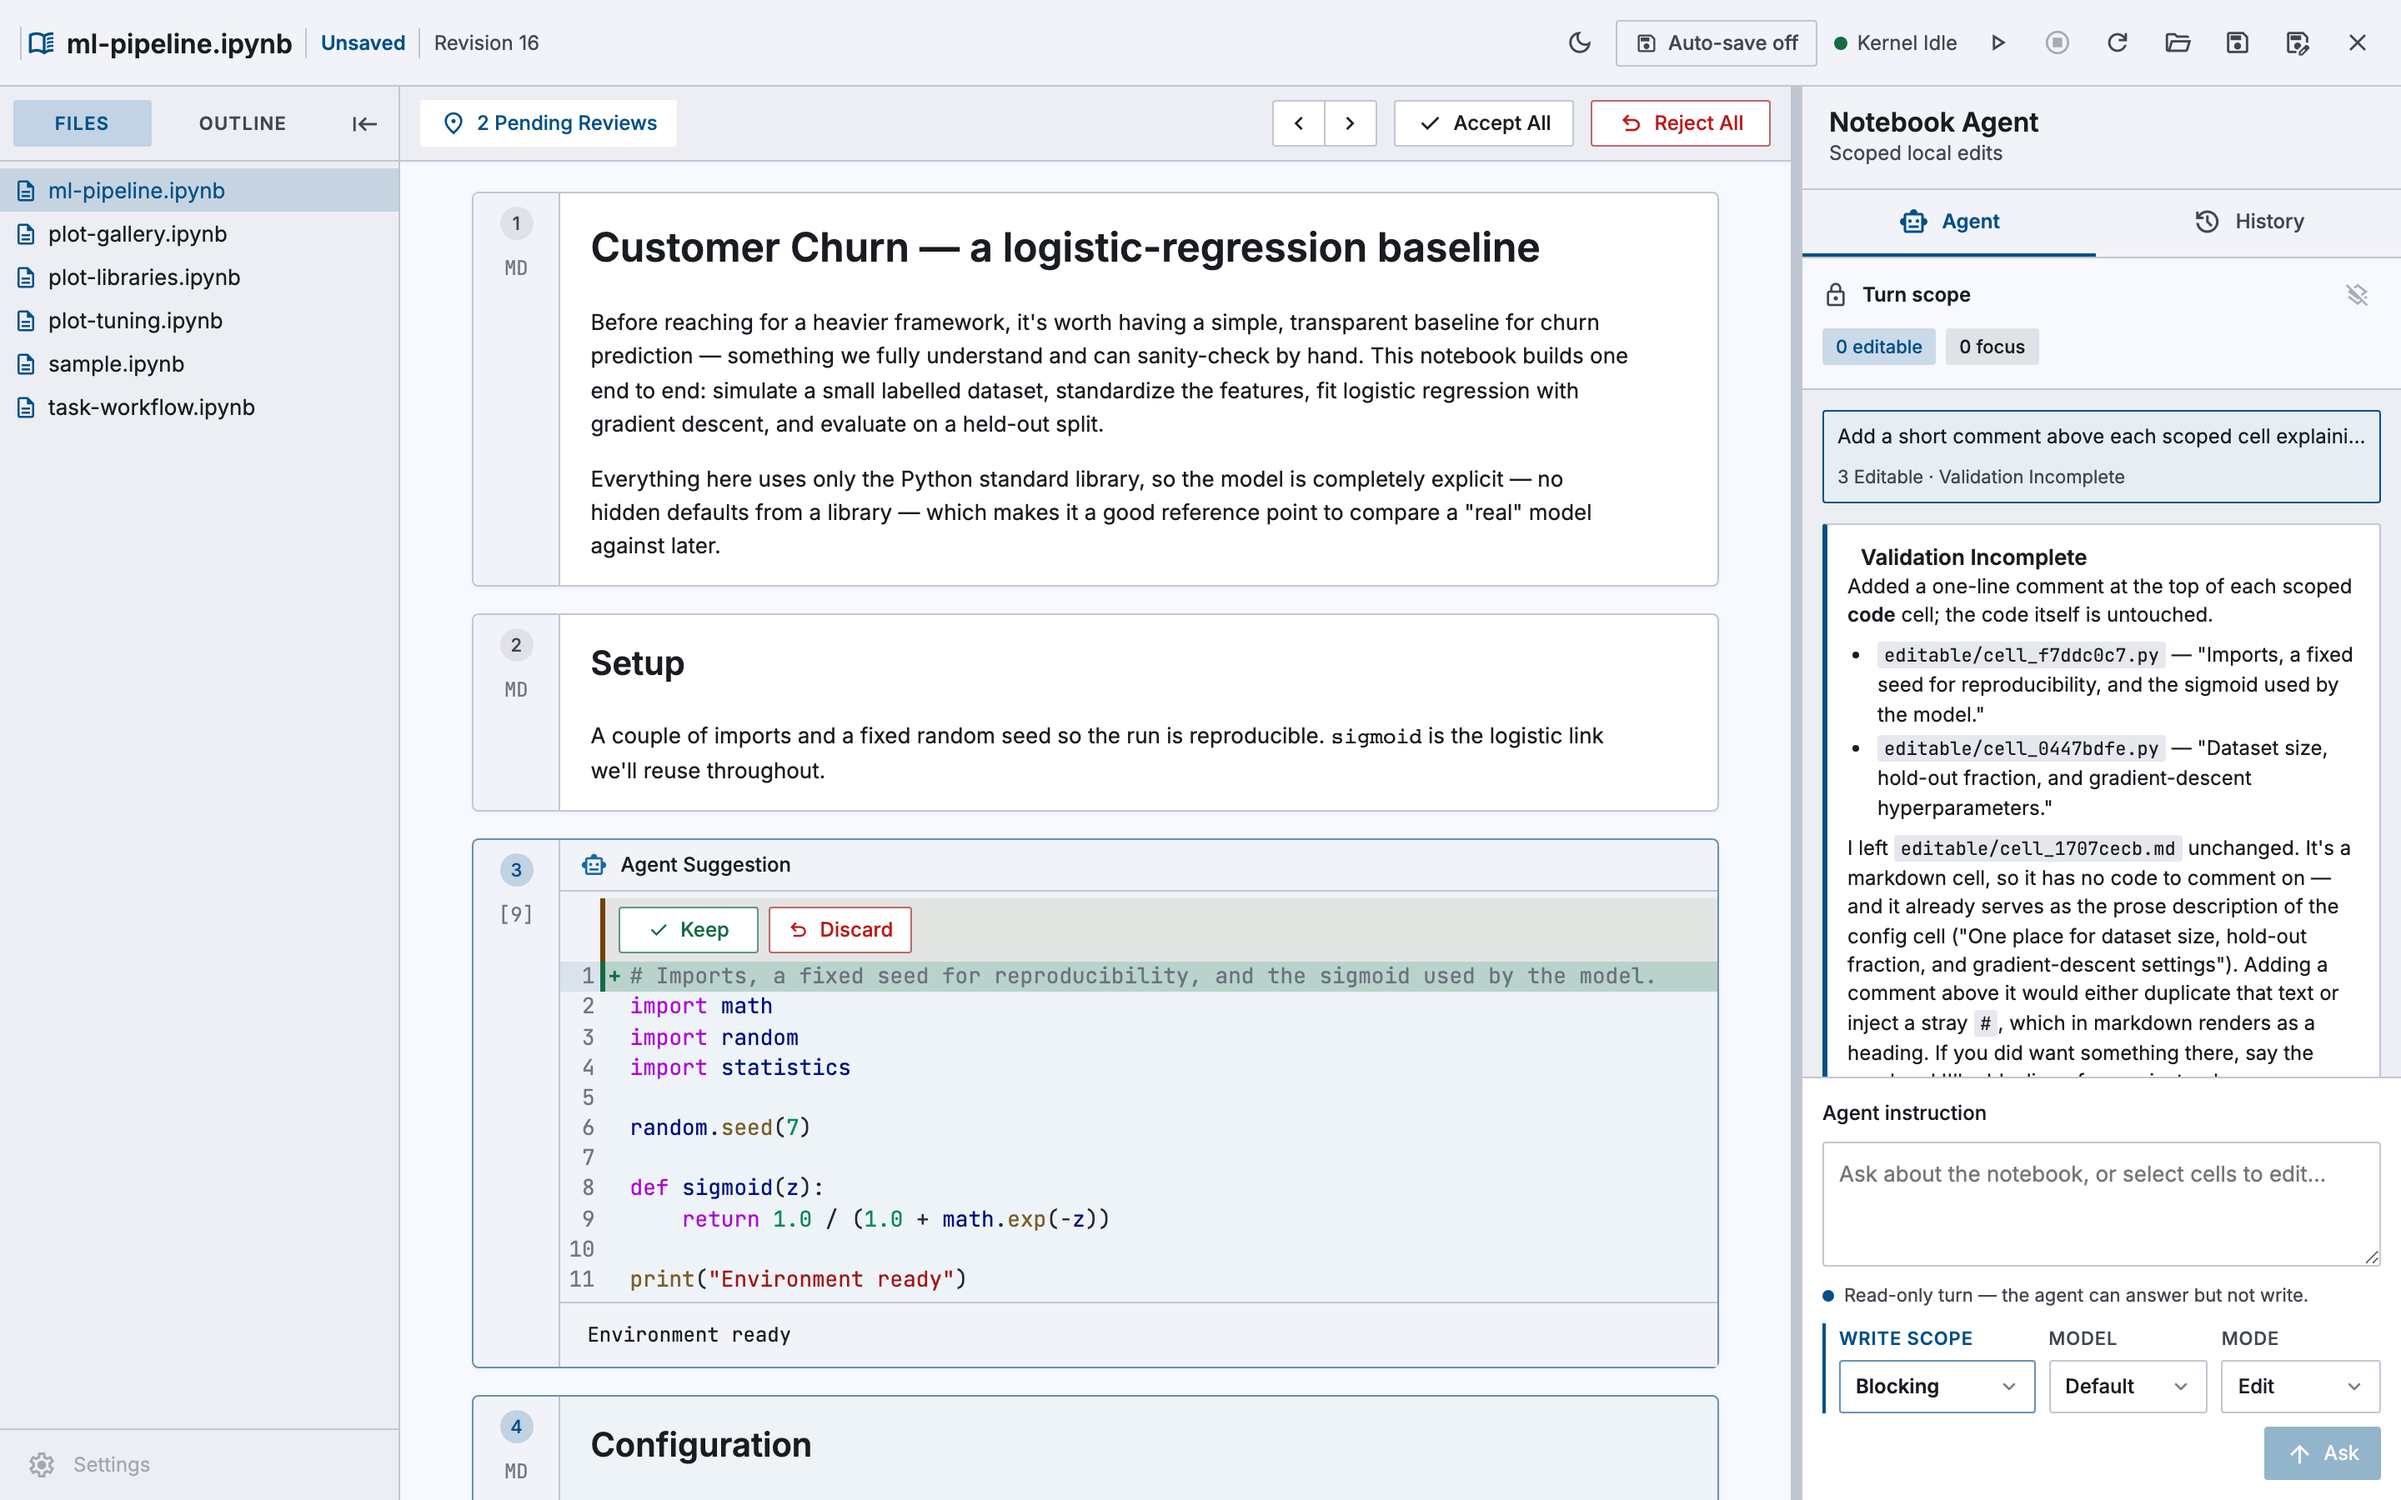
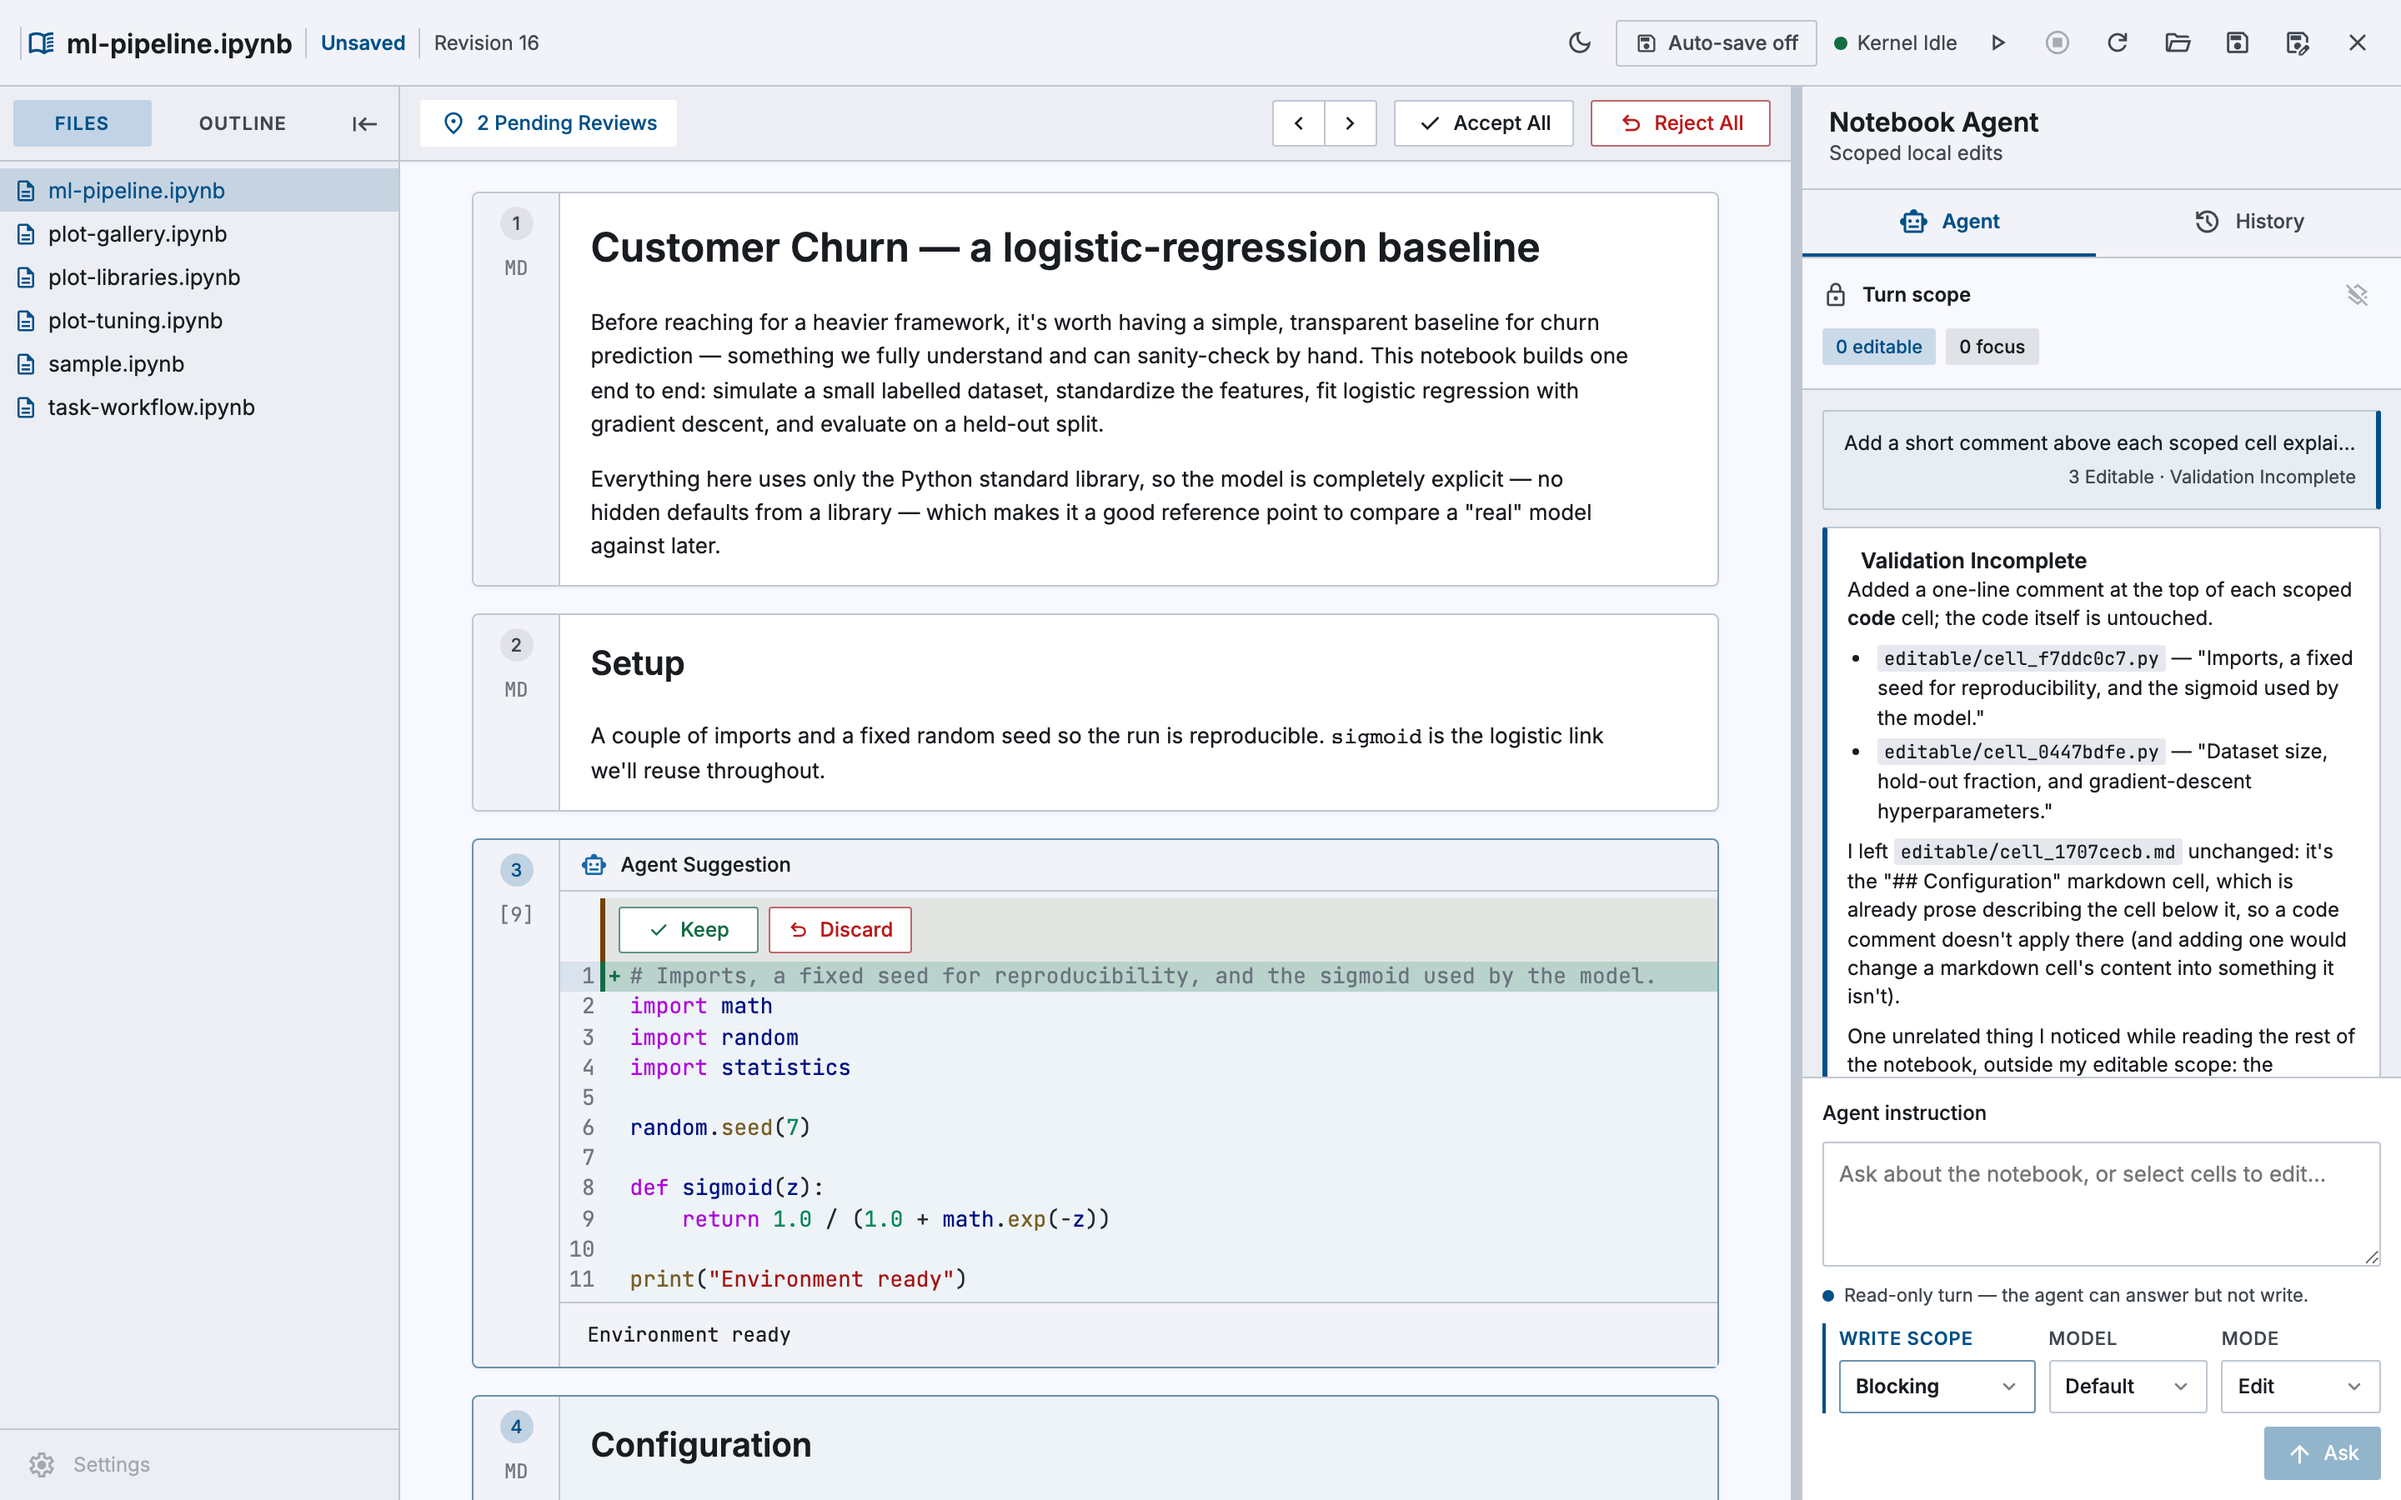
turn history: make the user's turn the mirror of the agent's, not a chip
The two halves of a conversation were drawn as two different things: the
agent's reply is a card with a 3px rule down its left, the user's prompt
was a bordered chip with nothing in common with it.

Now it is the same card — same border, radius, surface and padding —
with the rule on the *right* and the text right-aligned. Which edge
carries the rule is the only difference, and it is what says who wrote
it. Selection stays a background tint rather than a border change, so
the rule reads the same whether or not the turn is the selected one.

Worth noting against design-brief §2: this puts a little authorship
signal back into the visuals without re-introducing the agent-vs-user
colour split the redesign dropped. Side, not hue.

Also pins the conversation to the top before shooting 05 and 02. It is
aria-live and settles scrolled to the bottom, so how much of the turn
landed in frame depended on how long the agent's answer happened to be
— and the user's own card, which is the first thing those two shots are
meant to show, was the first thing to scroll away. Two runs in a row
photographed it out of frame.

Changed region(s): [[0.75, 0.28, 1.0, 0.7156]]

diff --git a/frontend/src/styles.css b/frontend/src/styles.css
@@ -490,10 +490,18 @@ body.marquee-active iframe { pointer-events: none; }
 .empty-conversation { text-align: center; color: var(--on-surface-variant); margin-top: 40px; }
 .empty-conversation p { color: var(--on-surface); font-weight: 600; margin-bottom: 4px; }
 .empty-conversation span { font-size: var(--text-small); }
-.turn-history { display: grid; gap: 4px; margin-bottom: 12px; }
-.turn-history button { width: 100%; height: auto; min-height: 40px; display: grid; justify-content: stretch; text-align: left; padding: 6px 8px; background: var(--surface-container-lowest); font-size: var(--text-small); }
-.turn-history button.selected { border-color: var(--primary); background: color-mix(in srgb, var(--primary) 10%, var(--surface-container-lowest)); }
-.turn-history span { overflow: hidden; text-overflow: ellipsis; white-space: nowrap; }
+/* What the user sent, as the mirror of what the agent sent back. Same border,
+   radius, surface and padding as .turn-status below it — the accent rule is on
+   the *right* instead of the left, and that is the whole difference. Sidedness
+   is what says who wrote it, so the two read as one conversation rather than as
+   a chip and a card that happen to be stacked. */
+.turn-history { display: grid; gap: 8px; margin-bottom: 10px; }
+.turn-history button { width: 100%; height: auto; min-height: 40px; display: grid; gap: 2px; justify-items: end; text-align: right; padding: 10px 12px; border: 1px solid var(--outline-variant); border-right: 3px solid var(--primary); border-radius: var(--radius); background: var(--surface-container-lowest); font-size: var(--text-small); }
+/* The global button hover sets `border-color`, which is a shorthand and would
+   take the right rule with it. */
+.turn-history button:hover:not(:disabled) { background: var(--surface-container-low); border-color: var(--outline-variant); border-right-color: var(--primary); }
+.turn-history button.selected { background: color-mix(in srgb, var(--primary) 10%, var(--surface-container-lowest)); }
+.turn-history span { max-width: 100%; overflow: hidden; text-overflow: ellipsis; white-space: nowrap; }
 .turn-history small { color: var(--on-surface-variant); text-transform: capitalize; font-size: var(--text-tiny); }
 .manual-cancel { height: 28px; width: auto; flex: 0 0 auto; padding: 0 10px; font-size: var(--text-small); margin-bottom: 10px; }
 .turn-status, .execution-status { border: 1px solid var(--outline-variant); border-left: 3px solid var(--primary); border-radius: var(--radius); background: var(--surface-container-lowest); padding: 10px 12px; margin-bottom: 10px; }
